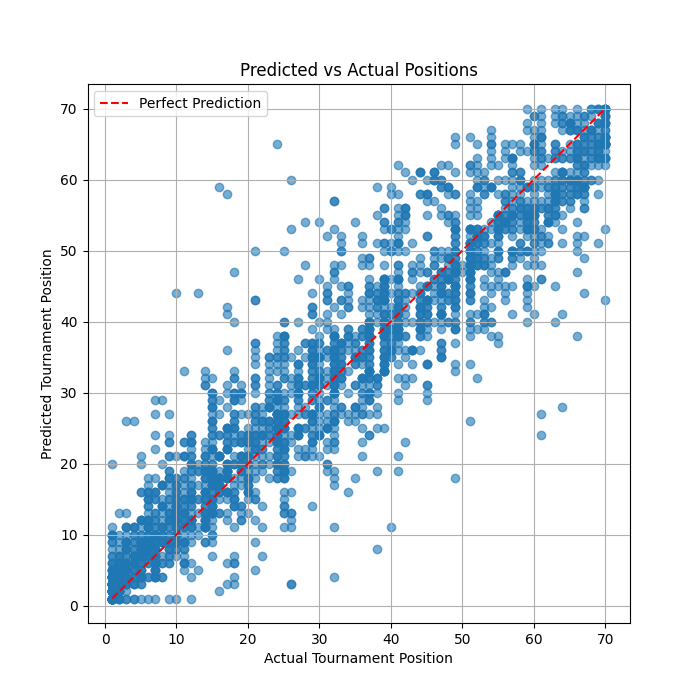
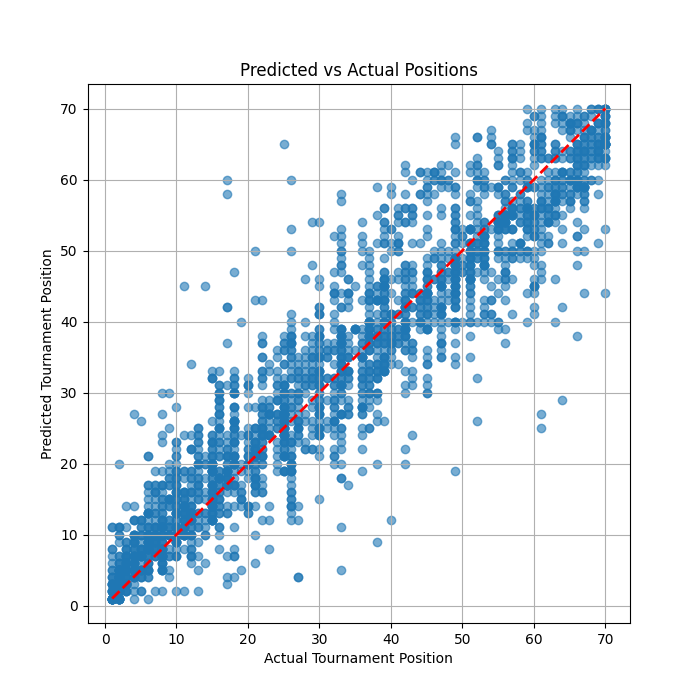
Refactor XGBoost pipeline for CPU compatibility and Streamlit use

diff --git a/pages/4- player_performance_prediction.py b/pages/4- player_performance_prediction.py
@@ -2,69 +2,45 @@ import streamlit as st
 import joblib
 import numpy as np
 
-# Load pipelines
+# Load the saved XGBoost model directly
 pipeline = joblib.load("outputs/pipelines/tournament_prediction_pipeline.pkl")
 cluster_pipeline = joblib.load("outputs/pipelines/clustering_pipeline.pkl")
 
-# Force XGBoost to CPU
-xgb_model = pipeline.named_steps['model']
-xgb_model.set_params(predictor='cpu_predictor')
-
-# Header
 st.markdown(
     "<div style='background-color:#f0f8ff;padding:15px;"
     "border-radius:10px;margin-bottom:15px'>"
     "<h1>Predict Tournament Finish</h1>"
-    "<p>Input a player’s strokes‑gained stats to estimate "
-    "their finish in a 70‑player tournament.</p>"
-    "</div>",
+    "<p>Input a player’s strokes‑gained stats to estimate their "
+    "finish in a 70‑player tournament.</p></div>",
     unsafe_allow_html=True
 )
 
 # Input form
 with st.form("predict_form"):
-    sg_putt = st.number_input("SG Putting", min_value=-2.0, max_value=2.0,
-                              value=0.0, step=0.01, format="%0.2f")
-    sg_arg = st.number_input("SG Around Green", min_value=-2.0, max_value=2.0,
-                             value=0.0, step=0.01, format="%0.2f")
-    sg_app = st.number_input("SG Approach", min_value=-2.0, max_value=2.0,
-                             value=0.0, step=0.01, format="%0.2f")
-    sg_ott = st.number_input("SG Off the Tee", min_value=-2.0, max_value=2.0,
-                             value=0.0, step=0.01, format="%0.2f")
+    sg_putt = st.number_input("SG Putting", -2.0, 2.0, 0.0, 0.01)
+    sg_arg = st.number_input("SG Around Green", -2.0, 2.0, 0.0, 0.01)
+    sg_app = st.number_input("SG Approach", -2.0, 2.0, 0.0, 0.01)
+    sg_ott = st.number_input("SG Off the Tee", -2.0, 2.0, 0.0, 0.01)
     submit = st.form_submit_button("Run Prediction")
 
 if submit:
     X = np.array([[sg_putt, sg_arg, sg_app, sg_ott]])
-
-    # Predict tournament finish
     scaled_pred = pipeline.predict(X)[0]
     unscaled = 1 + scaled_pred * (70 - 1)
-    predicted_position = int(np.round(unscaled))
-    predicted_position = max(1, min(predicted_position, 70))
+    predicted_position = int(np.clip(np.round(unscaled), 1, 70))
     st.success(f"Predicted finishing position: **{predicted_position}**")
 
-    # Predict cluster
     cluster_label = cluster_pipeline.predict(X)[0]
-
-    cluster_descriptions = {
+    cluster_desc = {
         0: "Strong chippers, weak driving; steady on the green.",
         1: "Weak approach a large issue; good putters.",
         2: "Consistent drivers, moderate to poor elsewhere.",
-        3: "Excellent ball-strikers; good all-round but weak putt.",
+        3: "Excellent ball-strikers; good all-round, work on putting.",
         4: "Approach a strength; putting an issue.",
         5: "Many areas need work!",
-        6: "Approach play should be first area to develop.",
+        6: "Approach play should be first focus.",
         7: "Consistent performer; all metrics roughly equal."
     }
-
-    description = cluster_descriptions.get(
-        cluster_label, "No description available for this cluster."
-    )
-
     st.write(f"**Cluster:** {cluster_label}")
-    st.info(description)
-
-    st.write(
-        "⚠ *Please note: cluster description is a guide and may "
-        "not exactly match current stats.*"
-    )
+    st.info(cluster_desc.get(cluster_label, "No description available."))
+    st.write("⚠ *Cluster description is a guide; may not match inputs.*")
